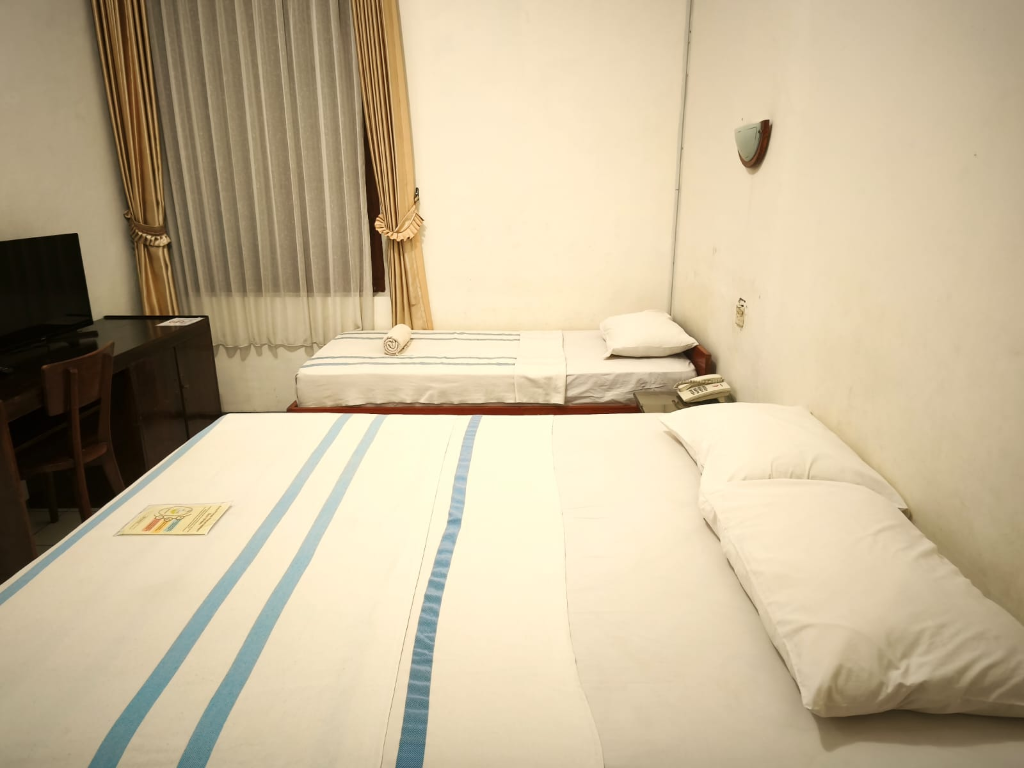
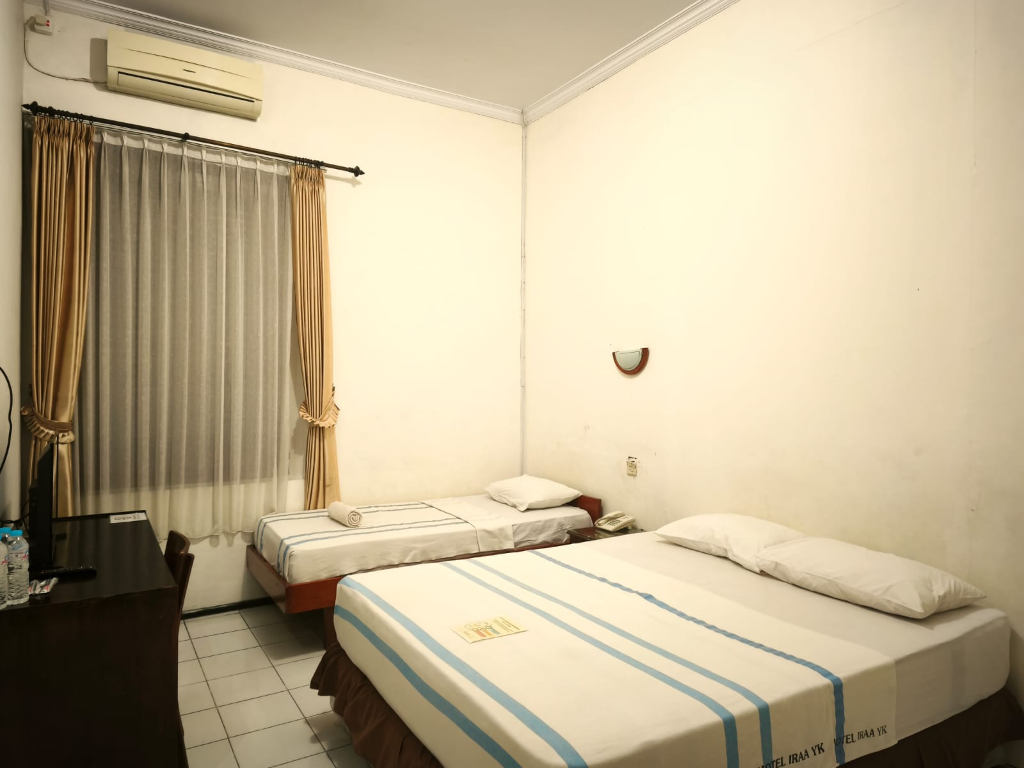
feat(rooms): add authentic photos & gallery for Iraa Family Room and hotel facilities

diff --git a/src/components/home/GallerySection.tsx b/src/components/home/GallerySection.tsx
@@ -90,10 +90,36 @@ const GALLERY_PHOTOS: GalleryPhoto[] = [
   },
   {
     src: "/images/rooms/iraa-family-room.png",
-    alt: "Kamar Iraa Family Room berkapasitas 3 orang untuk keluarga",
+    alt: "Kamar Iraa Family Room berkapasitas 3 orang untuk keluarga dengan ranjang double dan single",
     roomName: "Iraa Family Room (3 Tamu)",
     category: "Family Room",
     capacity: 3,
+  },
+  {
+    src: "/images/rooms/iraa-family-room-beds.png",
+    alt: "Detail ranjang double dan single bersih di kamar Iraa Family Room",
+    roomName: "Iraa Family Room (Double & Single Bed)",
+    category: "Family Room",
+    capacity: 3,
+  },
+  {
+    src: "/images/rooms/iraa-family-room-bathroom.png",
+    alt: "Kamar mandi pribadi shower water heater, wastafel cermin, dan kloset duduk",
+    roomName: "Iraa Family Room (Kamar Mandi)",
+    category: "Family Room",
+    capacity: 3,
+  },
+  {
+    src: "/images/facilities/lounge-tamu.png",
+    alt: "Ruang santai keluarga dan tamu berarsitektur klasik dengan pintu kayu jati antik khas Yogyakarta",
+    roomName: "Lounge Tamu & Ruang Santai",
+    category: "Fasilitas Hotel",
+  },
+  {
+    src: "/images/facilities/ruang-tengah-foyer.png",
+    alt: "Area foyer tengah hotel bernuansa kolonial klasik dengan pintu kembar",
+    roomName: "Foyer Tengah & Sejarah Hotel",
+    category: "Fasilitas Hotel",
   },
   {
     src: "/images/rooms/iraa-economy-fan.png",

diff --git a/src/data/rooms.ts b/src/data/rooms.ts
@@ -172,6 +172,22 @@ export const ROOMS_DATA: RoomItem[] = [
         src: "/images/rooms/iraa-family-room.png",
         alt: "Tampilan luas kamar Iraa Family Room dengan ranjang double dan single di samping jendela",
       },
+      {
+        src: "/images/rooms/iraa-family-room-beds.png",
+        alt: "Detail penataan ranjang double dan single yang bersih, luas, dan nyaman untuk 3 tamu",
+      },
+      {
+        src: "/images/rooms/iraa-family-room-bathroom.png",
+        alt: "Kamar mandi pribadi bersih dengan shower water heater, wastafel cermin, dan kloset duduk",
+      },
+      {
+        src: "/images/facilities/lounge-tamu.png",
+        alt: "Ruang santai keluarga dan tamu berarsitektur klasik dengan pintu kayu jati antik khas Yogyakarta",
+      },
+      {
+        src: "/images/facilities/ruang-tengah-foyer.png",
+        alt: "Area foyer tengah hotel bernuansa kolonial dengan pintu kembar dan dokumentasi sejarah",
+      },
     ],
   },
   {
